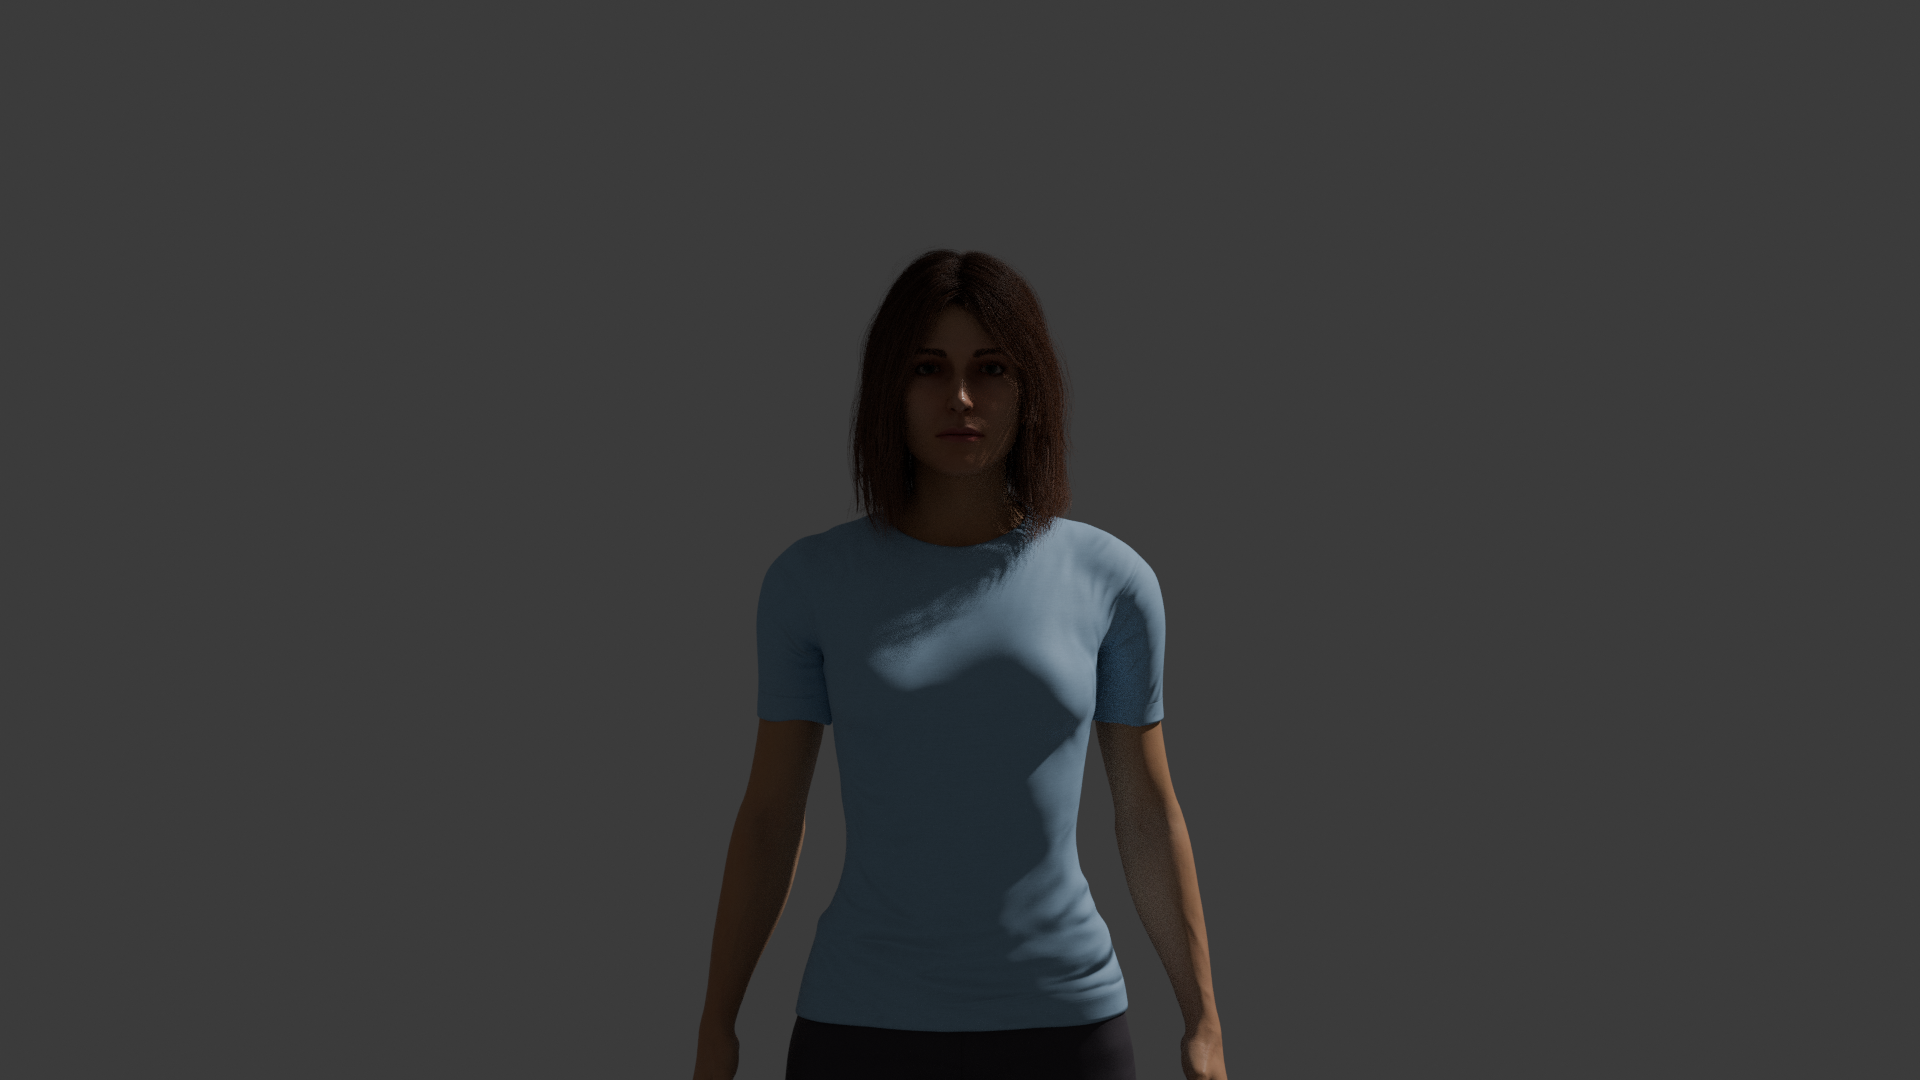
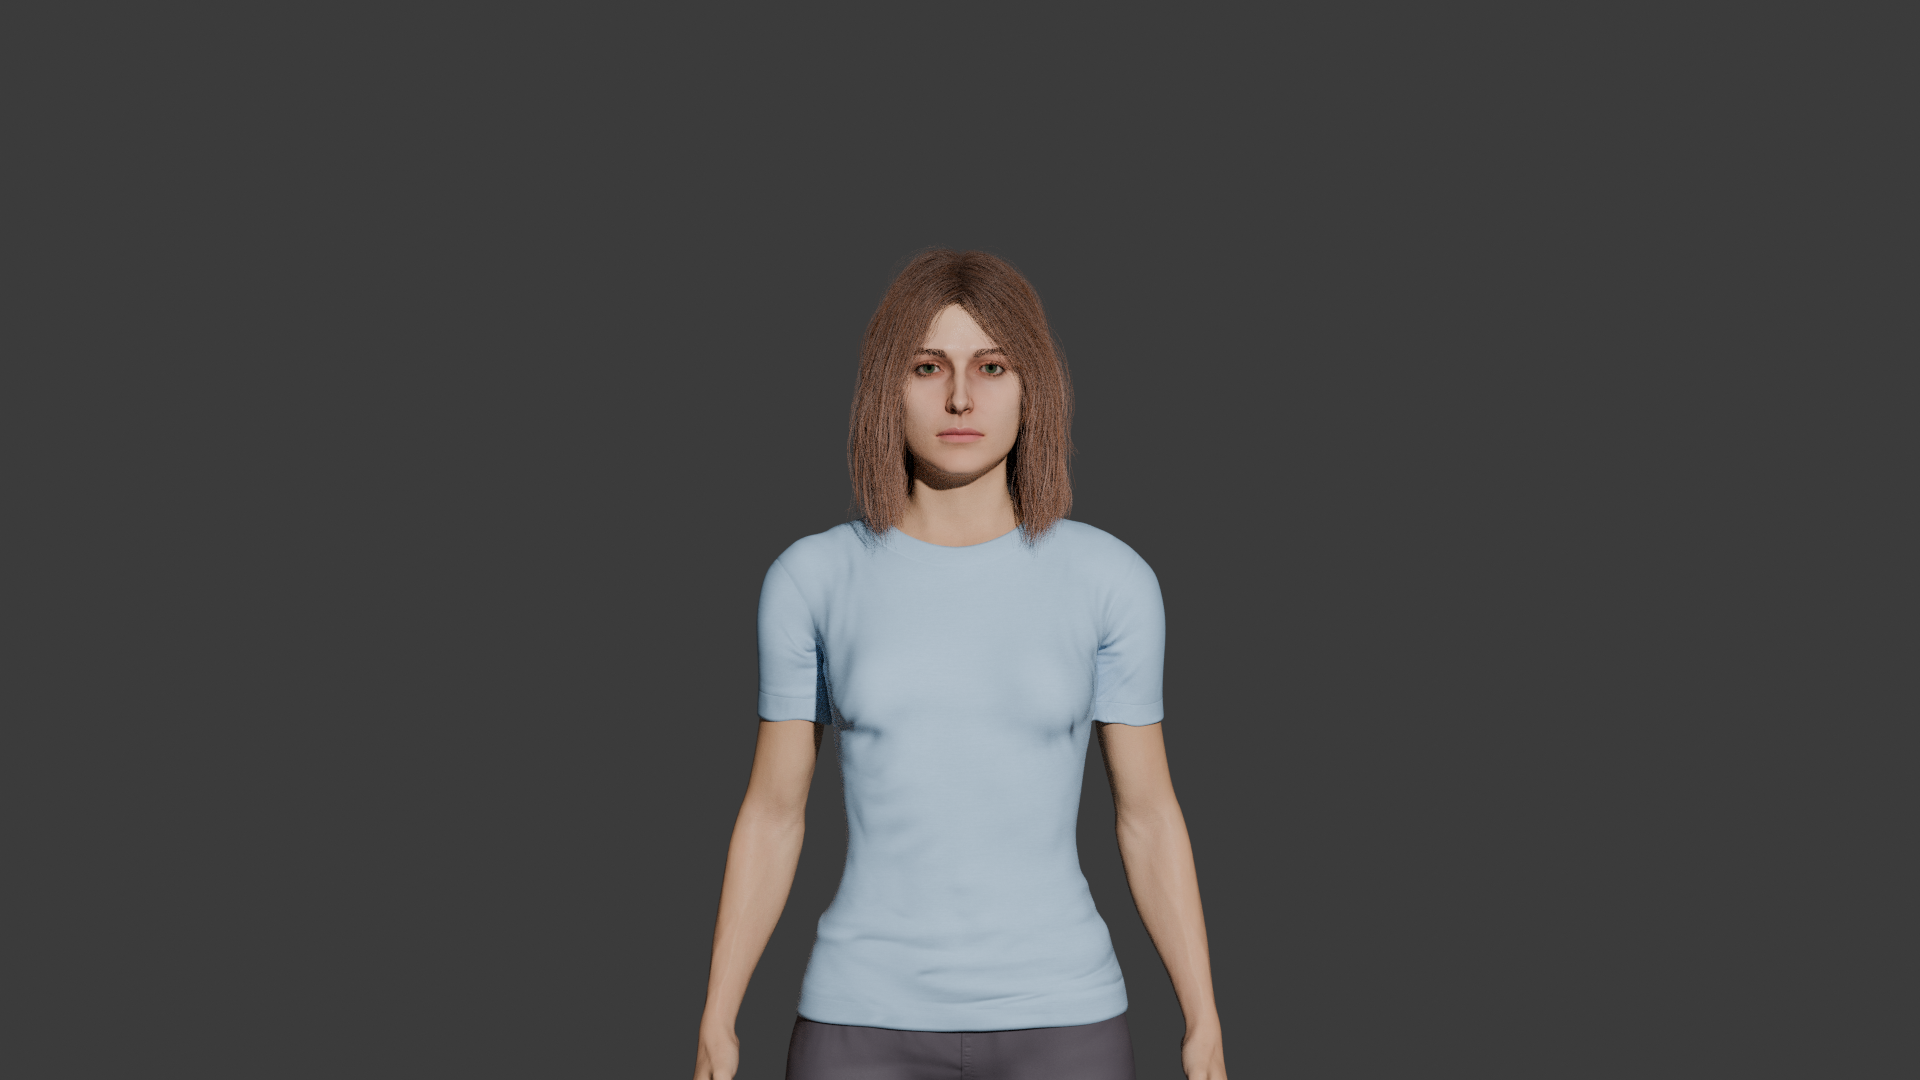
test.py

Changed region(s): [[0.3438, 0.2139, 0.6562, 1.0]]

diff --git a/test.py b/test.py
@@ -95,11 +95,38 @@ def setup_and_render(blend_file_path, output_path):
     # 设置当前相机
     scene.camera = camera
     
-    # 添加光源（如果需要）
-    if not any(obj.type == 'LIGHT' for obj in bpy.data.objects):
-        bpy.ops.object.light_add(type='SUN', location=(5, 5, 5))
-        light = bpy.context.object
-        light.data.energy = 2.0  # 调整亮度
+    # 获取场景中的所有光源并修改它们的参数
+    light_sources = [obj for obj in bpy.data.objects if obj.type == 'LIGHT']
+    
+    if light_sources:
+        print(f"找到 {len(light_sources)} 个光源:")
+        for i, light in enumerate(light_sources):
+            # 根据光源类型设置不同的位置和强度
+            if i == 0:  # 第一个光源作为主光源
+                light.location = (1, -5, 3)
+                light.data.energy = 1500
+            else:  # 其他光源作为辅助光源
+                light.location = (-2, -3, 2)
+                light.data.energy = 500
+            
+            print(f"光源 '{light.name}' 类型: {light.data.type}, 位置: {light.location}, 强度: {light.data.energy}")
+    else:
+        # 如果没有光源，创建一个主光源和一个辅助光源
+        print("未找到光源，创建新光源")
+        
+        # 创建主光源 (Sun)
+        bpy.ops.object.light_add(type='SUN', location=(3, -2, 4))
+        main_light = bpy.context.object
+        main_light.name = "Main_Light"
+        main_light.data.energy = 2.5
+        print(f"创建主光源: {main_light.name}, 位置: {main_light.location}, 强度: {main_light.data.energy}")
+        
+        # 创建辅助光源 (Point)
+        bpy.ops.object.light_add(type='POINT', location=(-2, -3, 2))
+        fill_light = bpy.context.object
+        fill_light.name = "Fill_Light"
+        fill_light.data.energy = 1.5
+        print(f"创建辅助光源: {fill_light.name}, 位置: {fill_light.location}, 强度: {fill_light.data.energy}")
     
     # 执行渲染
     bpy.ops.render.render(write_still=True)
@@ -107,7 +134,7 @@ def setup_and_render(blend_file_path, output_path):
     print(f"渲染完成，输出路径: {output_path}")
 
 if __name__ == "__main__":
-    blend_file_path = "/home/ztw/Render/female-sports2.blend"
+    blend_file_path = "/home/ztw/Render/female-sports2_shape_key_rename.blend"
     output_path = "/home/ztw/HVCCS/res/render_res/rendered_image.png"
     
     # 确保输出目录存在
